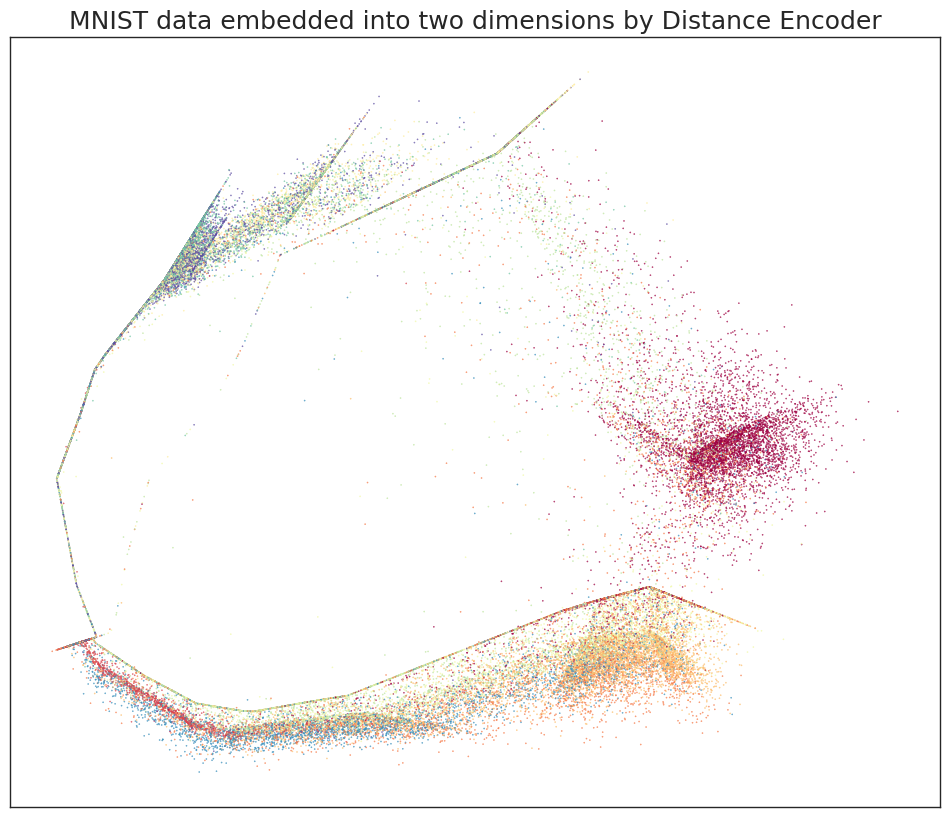
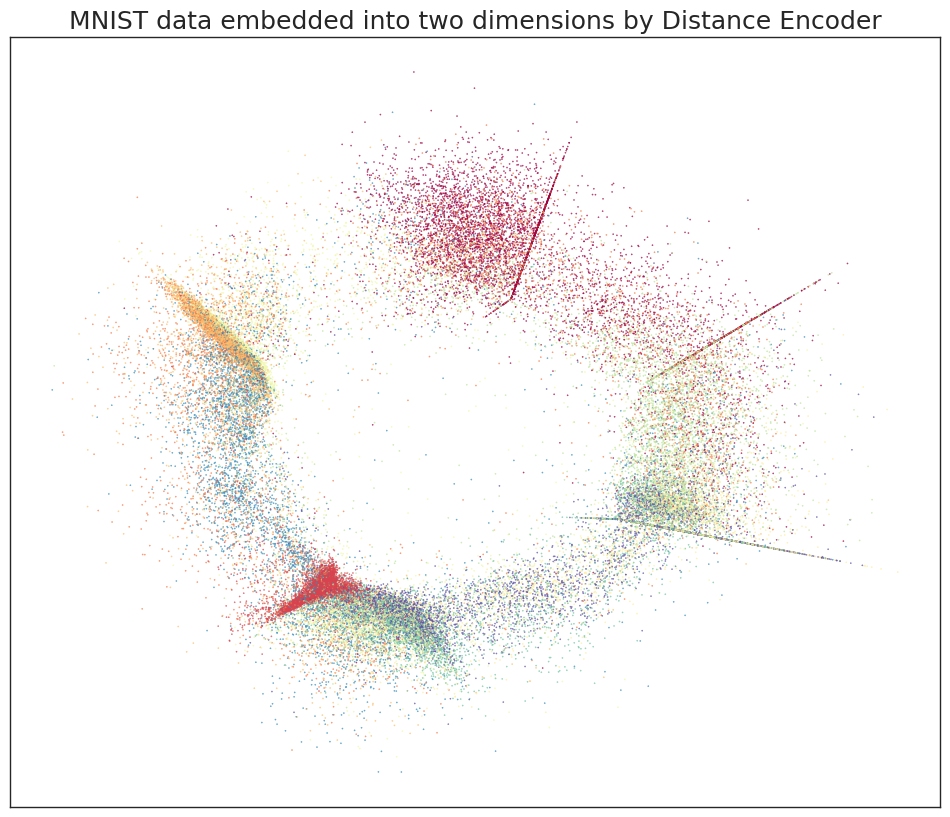
result for variation autoencoder

Changed region(s): [[0.0611, 0.1224, 0.8853, 0.9486], [0.0611, 0.4896, 0.0916, 0.5508]]

diff --git a/4_variational_autoencoder.py b/4_variational_autoencoder.py
@@ -5,7 +5,6 @@ import torch.nn.functional as F
 from torchvision.datasets import MNIST
 from torchvision import transforms
 from torch.utils.data import DataLoader
-import umap
 import matplotlib.pyplot as plt
 import seaborn as sns
 
@@ -23,13 +22,13 @@ class VariationalEncoder(nn.Module):
     def __init__(self, input_dim, low_dim):
         super(VariationalEncoder, self).__init__()
         self.pre_encode = torch.nn.Sequential(
-          nn.Linear(input_dim, 128),
+          nn.Linear(input_dim, 256),
           nn.ReLU(),
-          nn.Linear(128, 36),
+          nn.Linear(256, 64),
           nn.ReLU(),
         )
-        self.to_mu = nn.Linear(36, low_dim)
-        self.to_sigma = nn.Linear(36, low_dim)
+        self.to_mu = nn.Linear(64, low_dim)
+        self.to_sigma = nn.Linear(64, low_dim)
 
         self.N = torch.distributions.Normal(0, 1)
         self.N.loc = self.N.loc.cuda()
@@ -38,7 +37,7 @@ class VariationalEncoder(nn.Module):
 
     def forward(self, input_vec):
         pre_vec = self.pre_encode(input_vec)
-        mu =  self.to_me(pre_vec)
+        mu =  self.to_mu(pre_vec)
         sigma = torch.exp(self.to_sigma(pre_vec))
         low_vec = mu + sigma*self.N.sample(mu.shape)
         self.kl = (sigma**2 + mu**2 - torch.log(sigma) - 1/2).sum()
@@ -48,11 +47,11 @@ class Decoder(nn.Module):
     def __init__(self, low_dim, output_dim):
         super(Decoder, self).__init__()
         self.decoder = torch.nn.Sequential(
-          nn.Linear(low_dim, 36),
+          nn.Linear(low_dim, 64),
           nn.ReLU(),
-          nn.Linear(36, 128),
+          nn.Linear(64, 256),
           nn.ReLU(),
-          nn.Linear(128, output_dim)
+          nn.Linear(256, output_dim),
           nn.Sigmoid()
         )
 
@@ -60,20 +59,27 @@ class Decoder(nn.Module):
         output_vec = self.decoder(input_vec)
         return output_vec
 
+class VariationalAutoencoder(nn.Module):
+    def __init__(self, input_dim, low_dim):
+        super(VariationalAutoencoder, self).__init__()
+        self.encoder = VariationalEncoder(input_dim, low_dim)
+        self.decoder = Decoder(low_dim, input_dim)
+
+    def forward(self, x):
+        z = self.encoder(x)
+        return self.decoder(z)
 
 
-
-ae_low_model = AELowdim(784, 2).to(device)
-print(ae_low_model)
-
-
-loss_fn = nn.L1Loss()
-optimizer = torch.optim.Adam(ae_low_model.parameters(), lr=0.01)
+var_ae_model = VariationalAutoencoder(784, 2).to(device)
+print(var_ae_model)
 
 # Training 
 
+loss_fn = nn.MSELoss()
+optimizer = torch.optim.Adam(var_ae_model.parameters(), lr=0.01)
+
 n_epochs = 10
-ae_low_model = ae_low_model.train()
+ae_low_model = var_ae_model.train()
 
 for epoch in range(n_epochs):
 
@@ -85,7 +91,7 @@ for epoch in range(n_epochs):
 
         optimizer.zero_grad()
 
-        estimated_outputs, _ = ae_low_model(inputs)
+        estimated_outputs = var_ae_model(inputs)
 
         loss = loss_fn(estimated_outputs, inputs.flatten(1))
         loss.backward()
@@ -99,26 +105,26 @@ for epoch in range(n_epochs):
 
 # Transformation of data
 
-ae_low_model = ae_low_model.eval()
+var_ae_model = var_ae_model.eval()
 low_dim_vectors = np.empty((0, 2))
 output_v = np.empty((0))
 for inputs, outputs in mnist_dataloader:
 
   inputs = inputs.flatten(1).to(device)
 
-  _, low_coord = ae_low_model(inputs)
+  low_coord = var_ae_model.encoder(inputs)
   low_dim_vectors = np.concatenate((low_dim_vectors,
                                     np.array(low_coord.cpu().detach().numpy())))
   output_v = np.concatenate((output_v, outputs))
 
-sns.set(context="paper", style="white")
+# Plot 
 
+sns.set(context="paper", style="white")
 fig, ax = plt.subplots(figsize=(12, 10))
 color = output_v
 plt.scatter(low_dim_vectors[:, 0], low_dim_vectors[:, 1], c=color,
             cmap="Spectral", s=0.1)
 plt.setp(ax, xticks=[], yticks=[])
-plt.title("MNIST data embedded into two dimensions by AutoEncoder",
+plt.title("MNIST data embedded into two dimensions by VarAutoEncoder",
           fontsize=18)
-
 plt.show()

diff --git a/3_distance_encoder.py b/3_distance_encoder.py
@@ -50,7 +50,7 @@ print(de_model)
 loss_fn = nn.MSELoss()
 optimizer = torch.optim.Adam(de_model.parameters(), lr=0.01)
 
-n_epochs = 10
+n_epochs = 5
 de_model = de_model.train()
 
 for epoch in range(n_epochs):
